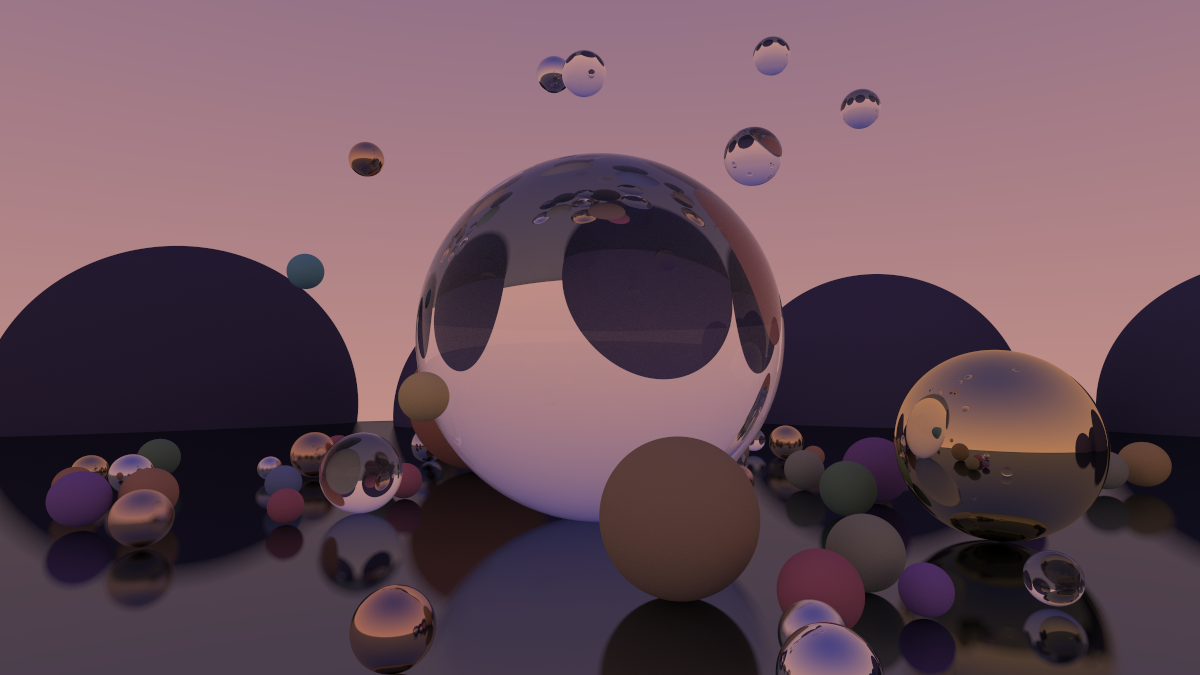
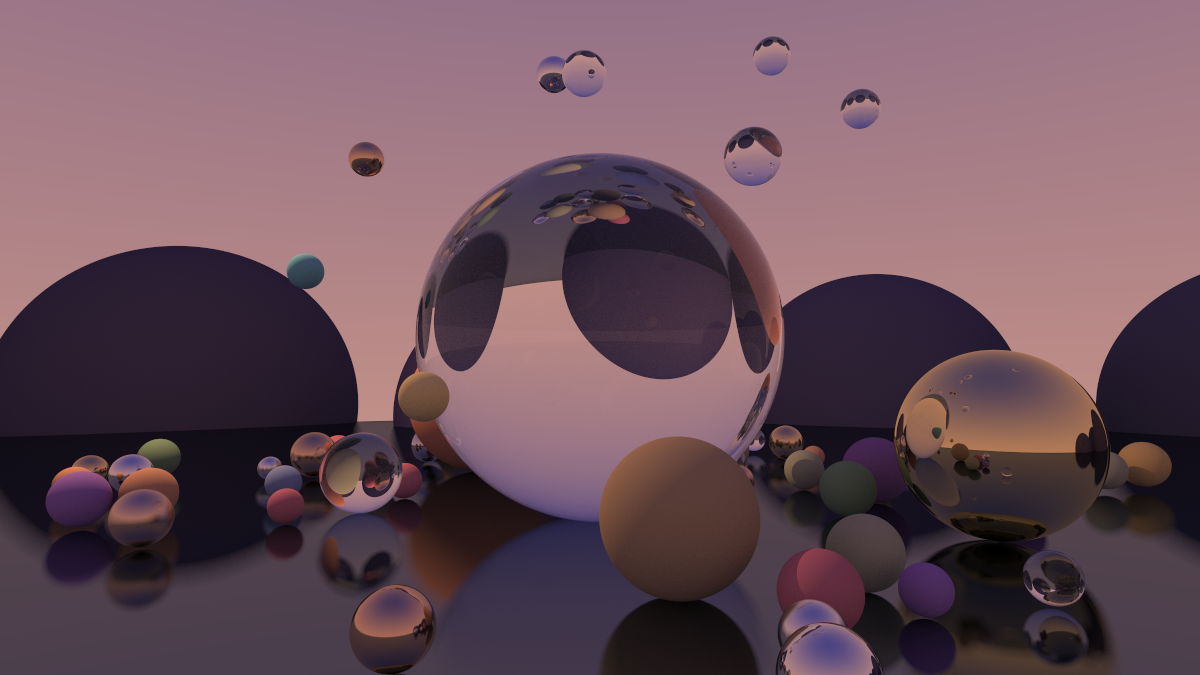
update image

diff --git a/README.md b/README.md
@@ -17,7 +17,7 @@ This project requires the `Lute` runtime. You can find the local setup instructi
 Before rendering the scene, you may want to adjust the sample count. This can be done by changing the `SAMPLES` variable at the top of `src/main.luau`.
 
 Performance depends on your hardware, but 10 samples per pixel shouldn't take more than a minute at the moment.
-> _the render above took 1000 samples per pixel._
+> _the render above took 500 samples per pixel._
 
 Launch:
 ```sh